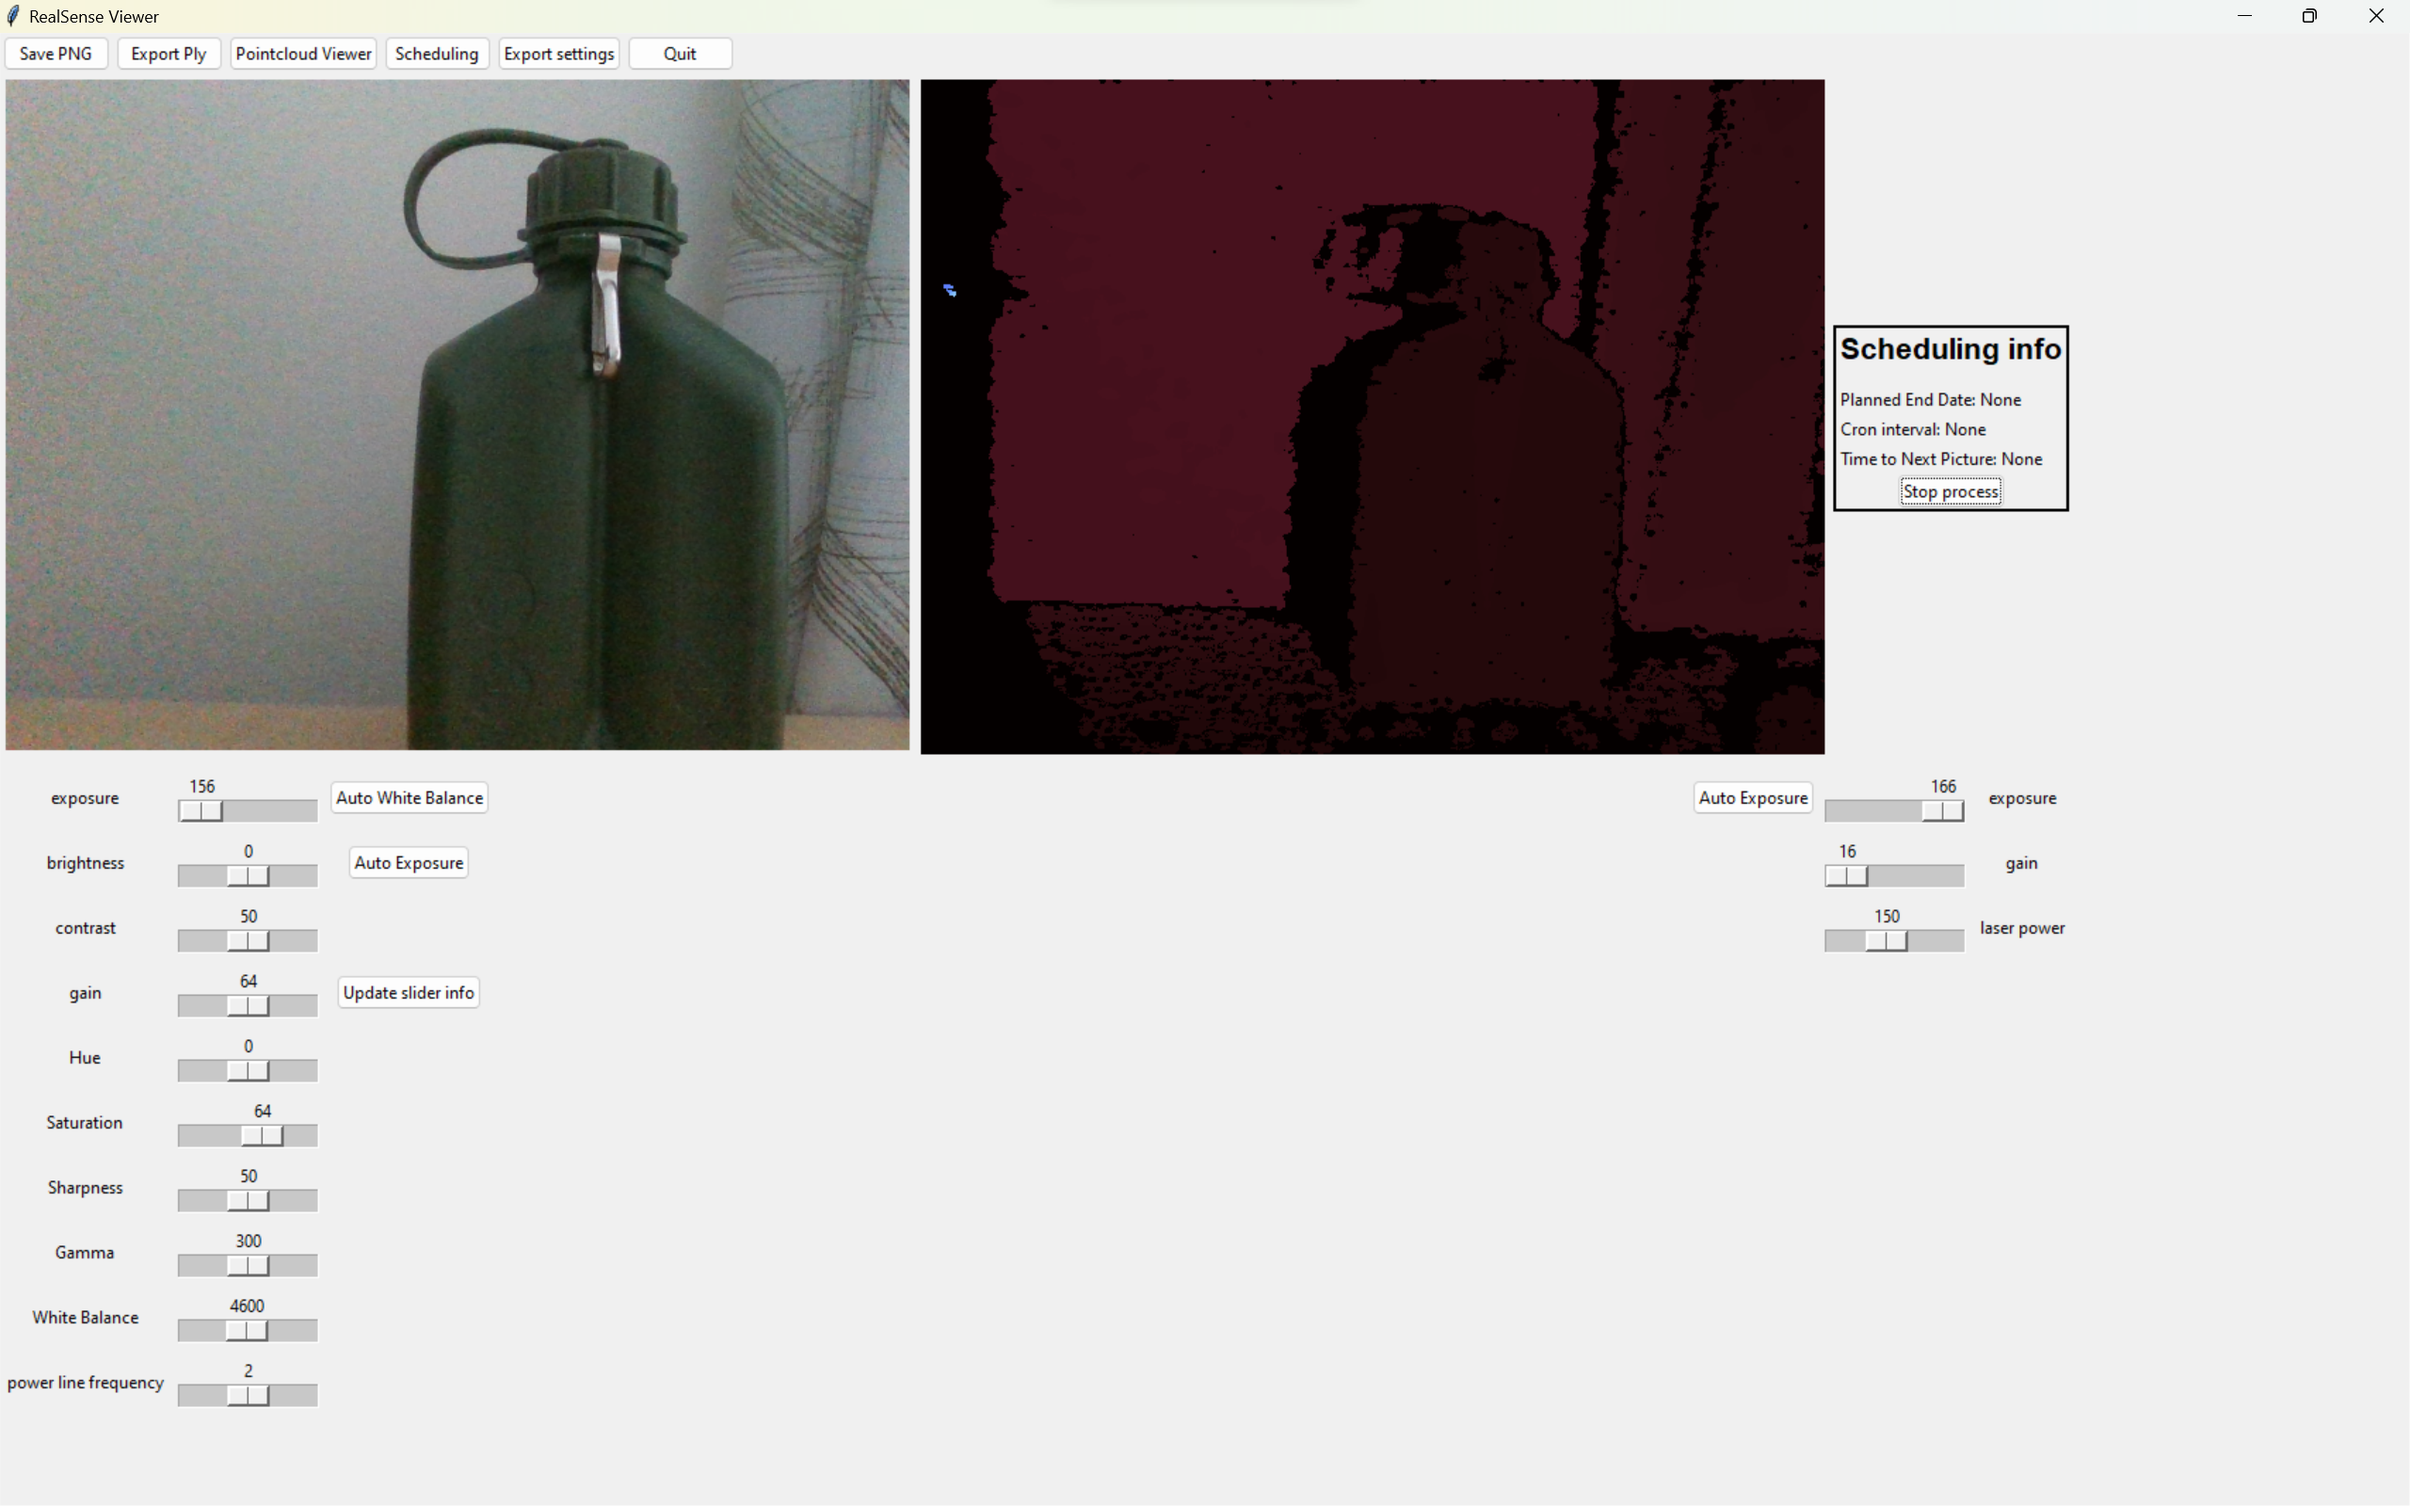
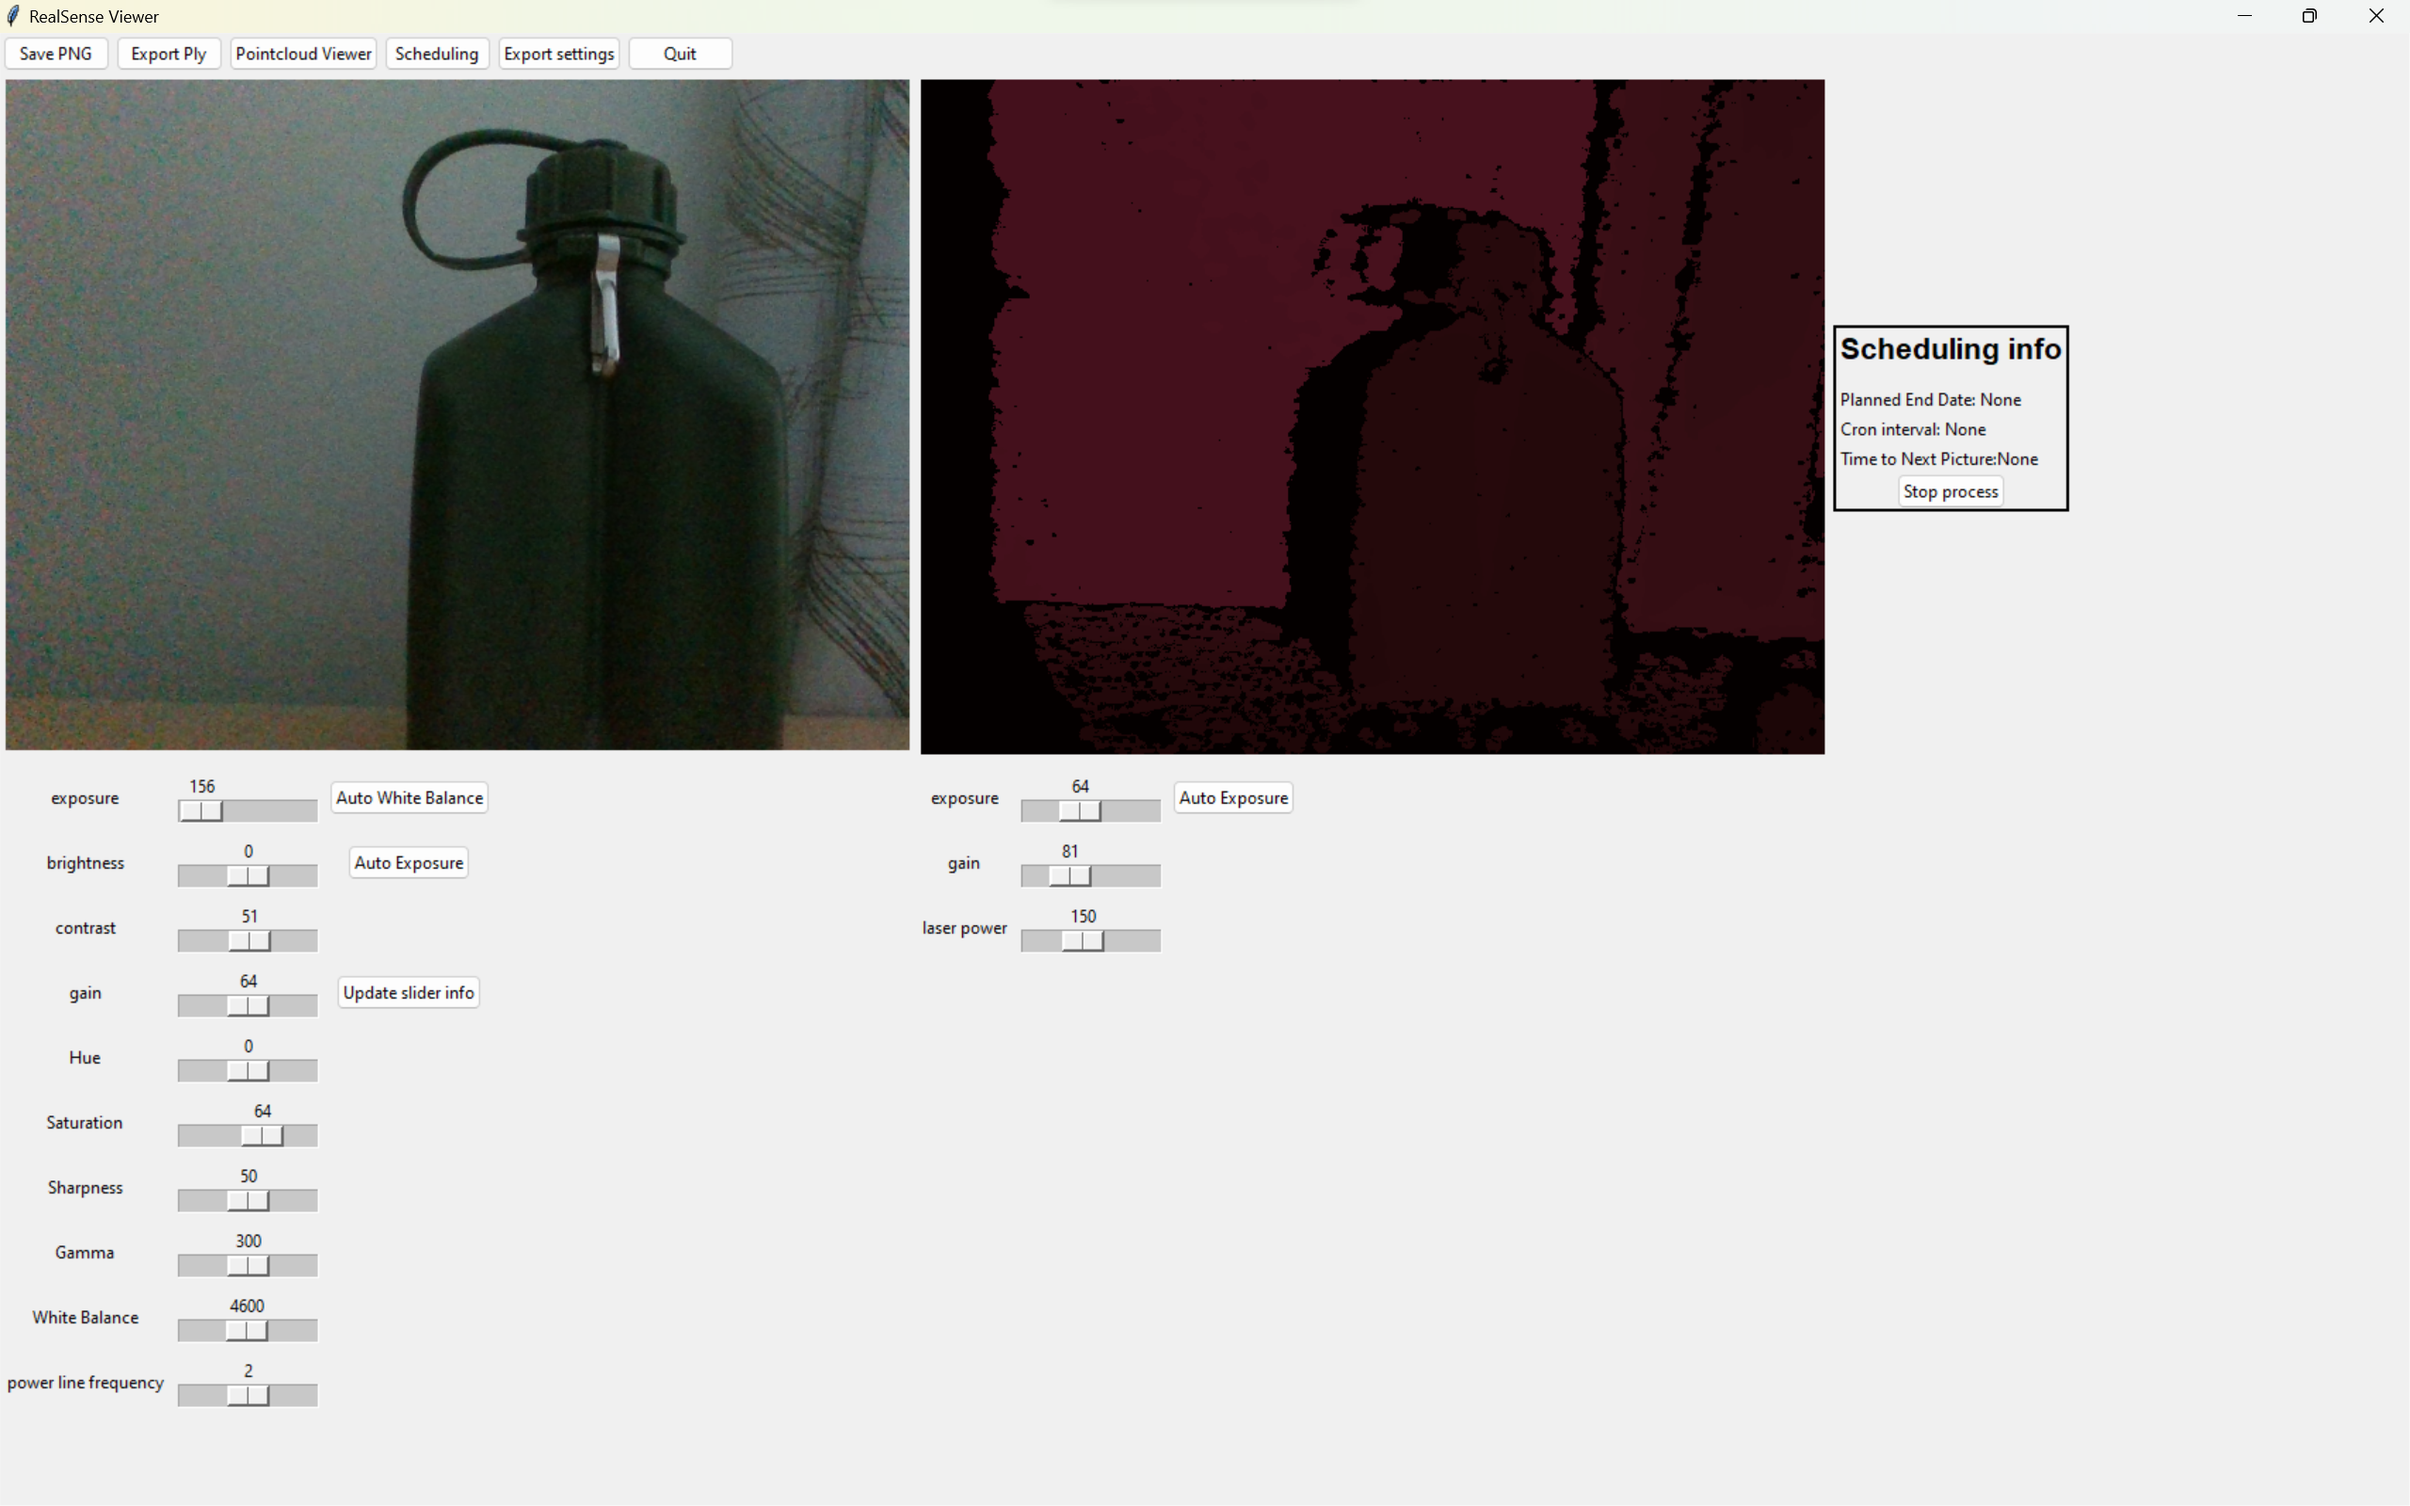
slight changes to GUI

diff --git a/main.py b/main.py
@@ -30,7 +30,7 @@ class RealSenseViewer:
     def __init__(self, root, state, config=None):
         self.root = root
         self.state = state
-
+        
         # checking if config file exists, then assigning the output path
         if config is None:
             self.script_dir = os.path.dirname(__file__)
@@ -128,7 +128,8 @@ class RealSenseViewer:
             self.cron_interval = cron_interval
             self.end_date = callback_end_date
             # Update the scheduling info
-            self.planned_end_date_label.configure(text=f"Planned End Date: {self.end_date}")
+            display_date = self.end_date.strftime("%Y-%m-%d") if self.end_date is not None else None
+            self.planned_end_date_label.configure(text=f"Planned End Date: {display_date}")
             self.interval_label.configure(text=f"Cron interval: {self.cron_interval}")
 
             # ------------------------Cron code------------------------
@@ -255,13 +256,13 @@ class RealSenseViewer:
         # Creating a frame to display scheduling info
         schedule_info_frame = tk.Frame(self.root, borderwidth=2, relief="solid")
         schedule_info_frame.grid(row=1, column=3, columnspan=1, pady=2, padx=2, sticky="ew")
-
         # Add a title label to the frame
         title_label = tk.Label(schedule_info_frame, text="Scheduling info", font=("Helvetica", 16, "bold"))
         title_label.pack(pady=(0, 10))
 
         # Add labels for planned end date, interval, and time to next picture
-        self.planned_end_date_label = tk.Label(schedule_info_frame, text=f"Planned End Date: {self.end_date}")
+        display_date = self.end_date.strftime("%Y-%m-%d") if self.end_date is not None else None
+        self.planned_end_date_label = tk.Label(schedule_info_frame, text=f"Planned End Date: {display_date}")
         self.planned_end_date_label.pack(anchor="w")
 
         self.interval_label = tk.Label(schedule_info_frame, text=f"Cron interval: {self.cron_interval}")
@@ -287,7 +288,7 @@ class RealSenseViewer:
     def create_color_sliders(self):
         # the options for the color camera
         color_frame = tk.Frame(self.root)
-        color_frame.grid(row=2, column=0, columnspan=3, pady=2, sticky="ew")
+        color_frame.grid(row=2, column=0, columnspan=3 ,pady=2, sticky="ew")
 
         self.sliders_color = []
 
@@ -319,7 +320,7 @@ class RealSenseViewer:
             self.update_sliders()
             self.update_auto_btns()
 
-        btn = ttk.Button(color_frame, text="Auto Withe Balance", command=auto_white_balance)
+        btn = ttk.Button(color_frame, text="Auto White Balance", command=auto_white_balance)
         btn.grid(row=0, column=2, padx=2, pady=2)
         self.auto_btns.append(btn)
 
@@ -328,7 +329,7 @@ class RealSenseViewer:
             self.update_sliders()
             self.update_auto_btns()
 
-        auto_exposure_btn = ttk.Button(color_frame, text="Auto Exposure1", command=color_auto_exposure)
+        auto_exposure_btn = ttk.Button(color_frame, text="Auto Exposure", command=color_auto_exposure)
         auto_exposure_btn.grid(row=1, column=2, padx=2, pady=2)
         self.auto_btns.append(auto_exposure_btn)
 
@@ -347,7 +348,7 @@ class RealSenseViewer:
         self.sliders_depth = []
 
         depth_frame = tk.Frame(self.root)
-        depth_frame.grid(row=2, column=1, columnspan=3, pady=2, sticky="ne")
+        depth_frame.grid(row=2, column=1, columnspan=3, pady=2, sticky="nwe")
 
         sliders_data = [
             ("exposure", {"from_": 1, "to": 166, "orient": tk.HORIZONTAL}, state.realsense.set_depth_exposure),
@@ -357,7 +358,7 @@ class RealSenseViewer:
 
         for i, (text, slider_args, command) in enumerate(sliders_data):
             label = tk.Label(depth_frame, text=text)
-            label.grid(row=i, column=2, padx=2, pady=2)
+            label.grid(row=i, column=0, padx=2, pady=2)
             slider1 = tk.Scale(depth_frame, **slider_args)
             slider1.grid(row=i, column=1, padx=2, pady=2)
             slider1.bind("<ButtonRelease-1>", lambda event, slider=slider1, cmd=command: cmd(slider.get()))
@@ -365,9 +366,12 @@ class RealSenseViewer:
 
         def depth_auto_exposure():
             state.realsense.depth_auto_exposure()
+            self.update_sliders()
+            self.update_auto_btns()
+
 
         btn = ttk.Button(depth_frame, text="Auto Exposure", command=depth_auto_exposure)
-        btn.grid(row=0, column=0, padx=2, pady=2)
+        btn.grid(row=0, column=2, padx=2, pady=2)
         self.auto_btns.append(btn)
 
     def update_sliders(self):
